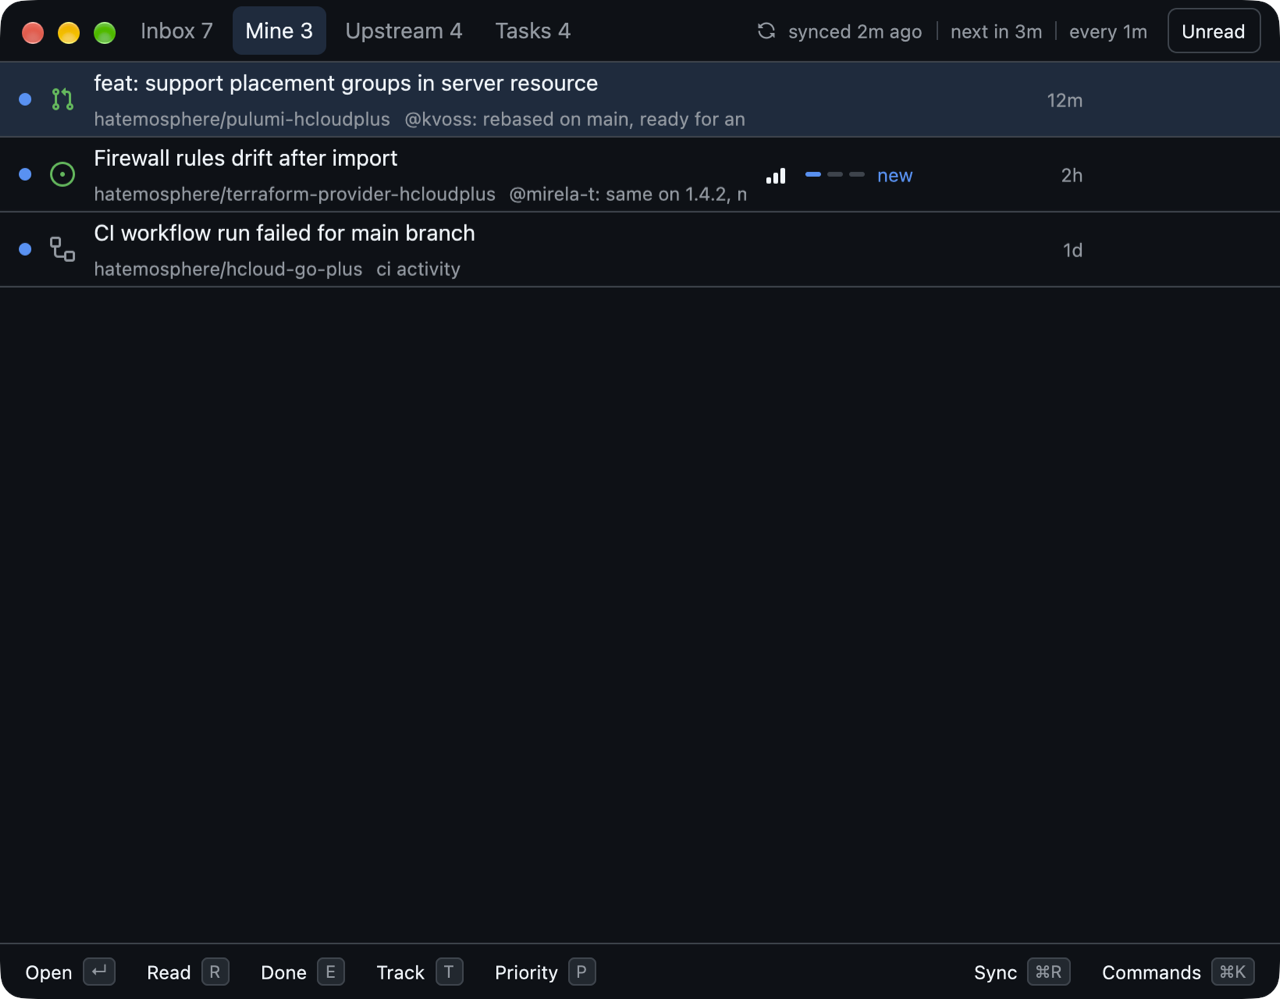
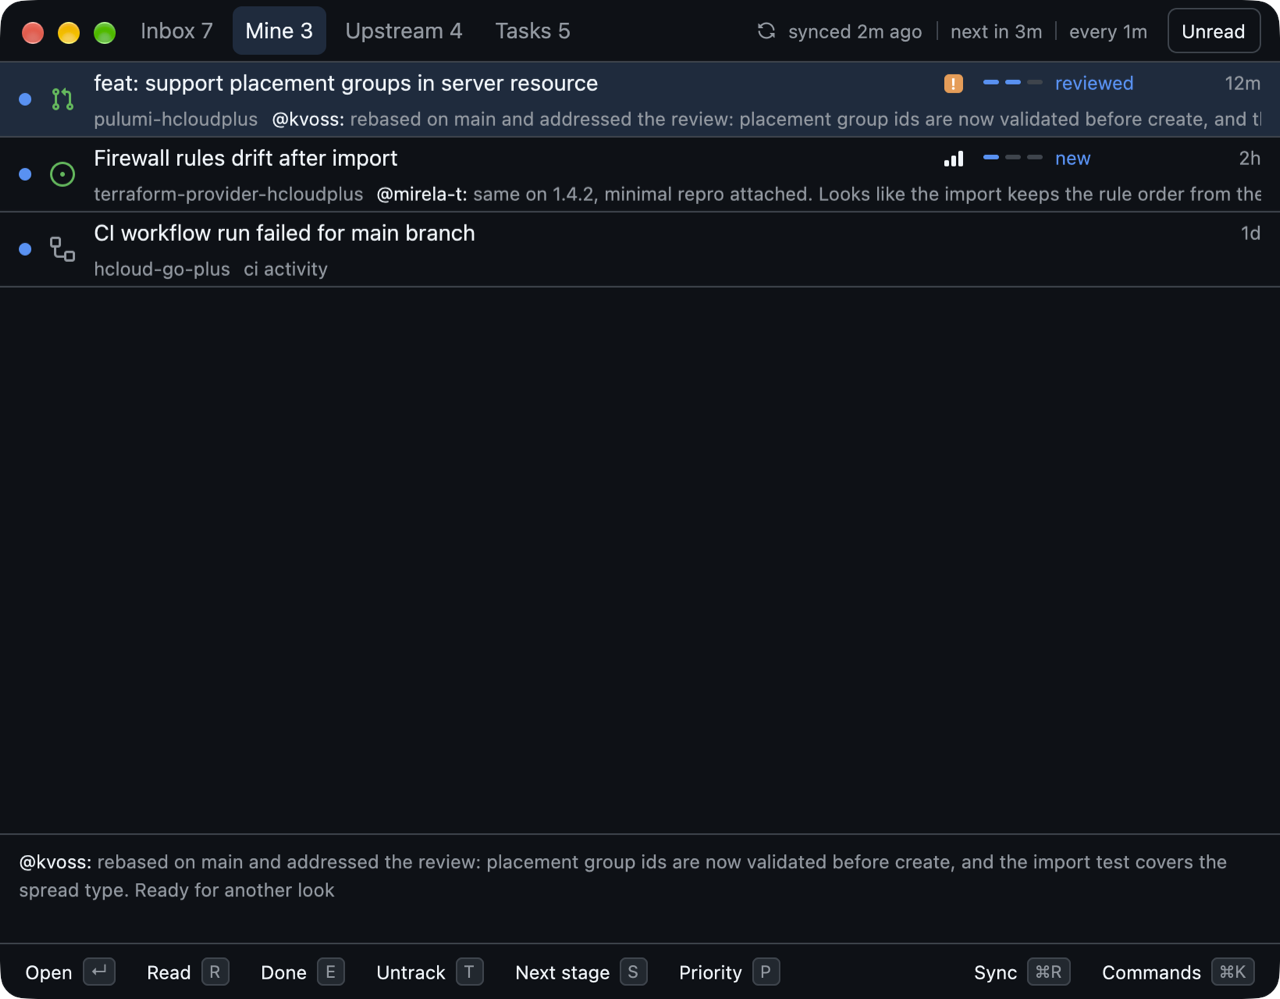
feat: full-width comments and preview strip

diff --git a/src/ui.rs b/src/ui.rs
@@ -3,9 +3,10 @@ use std::time::Duration;
 
 use gpui::{
     Action, AnyElement, AnyView, App, Context, Div, ElementId, Entity, FocusHandle, FontWeight,
-    IntoElement, KeyContext, KeyDownEvent, MouseButton, Render, Rgba, ScrollHandle, ScrollStrategy,
-    SharedString, Stateful, Subscription, Task, UniformListScrollHandle, Window, WindowAppearance,
-    actions, div, prelude::*, px, rgb, rgba, svg, uniform_list,
+    HighlightStyle, IntoElement, KeyContext, KeyDownEvent, MouseButton, Render, Rgba, ScrollHandle,
+    ScrollStrategy, SharedString, Stateful, StyledText, Subscription, Task,
+    UniformListScrollHandle, Window, WindowAppearance, actions, div, prelude::*, px, rgb, rgba,
+    svg, uniform_list,
 };
 
 use crate::db::Thread;
@@ -1018,6 +1019,7 @@ impl Render for Deck {
             .child(self.header(th, cx))
             .when(self.tab == Tab::Tasks, |d| d.child(self.tasks_bar(th, cx)))
             .child(body)
+            .children(current.as_deref().map(|t| preview(t, th)))
             .child(self.action_bar(current.as_deref(), window, th));
 
         let palette = self
@@ -1056,8 +1058,22 @@ impl Render for Tip {
             .shadow_md()
             .text_xs()
             .text_color(th.fg)
-            .child(self.label.clone())
+            .child(div().max_w(px(460.)).child(self.label.clone()))
             .children(self.keys.iter().map(|k| kbd(k.clone(), th)))
+    }
+}
+
+/// Plain text tooltip, wrapped, e.g. the full latest comment.
+fn text_tip(text: String) -> impl Fn(&mut Window, &mut App) -> AnyView {
+    let text = SharedString::from(text);
+    move |window, cx| {
+        let th = Theme::of(window);
+        cx.new(|_| Tip {
+            label: text.clone(),
+            keys: Vec::new(),
+            th,
+        })
+        .into()
     }
 }
 
@@ -1210,12 +1226,16 @@ fn row(
     let (status, color) = status_icon(t, th);
     let tracked = t.stage.is_some();
     let open = view.clone();
+    // Hover actions float over the right edge instead of reserving a column.
     let buttons = div()
+        .absolute()
+        .right(px(8.))
+        .top(px((ROW_H - 28.) / 2.))
         .flex()
-        .flex_none()
-        .justify_end()
-        .w(px(4. * 24. + 3. * 2.))
         .gap(px(2.))
+        .p(px(2.))
+        .rounded(px(6.))
+        .bg(if selected { th.sel } else { th.hover })
         .opacity(0.)
         .group_hover("row", |s| s.opacity(1.))
         .when(t.unread, |d| {
@@ -1261,9 +1281,77 @@ fn row(
             th,
         ));
 
+    // Your own repos are always yours; the owner prefix only costs space.
+    let repo = if t.mine {
+        t.repo.rsplit('/').next().unwrap_or(&t.repo)
+    } else {
+        &t.repo
+    };
+    let event = t.event.clone().filter(|e| !e.is_empty());
+    let (author, text) = match event.as_deref().and_then(|e| e.split_once(": ")) {
+        Some((who, text)) => (Some(who.to_owned()), text.to_owned()),
+        None => (
+            None,
+            event.clone().unwrap_or_else(|| t.reason.replace('_', " ")),
+        ),
+    };
+
+    let title_line = div()
+        .flex()
+        .items_center()
+        .gap_3()
+        .child(
+            div()
+                .flex_1()
+                .min_w(px(0.))
+                .text_sm()
+                .truncate()
+                .text_color(if t.unread { th.fg } else { th.mute })
+                .when(t.unread, |d| d.font_weight(FontWeight::MEDIUM))
+                .child(t.title.clone()),
+        )
+        // Fixed widths so columns line up whether or not a row is tracked.
+        .child(
+            div()
+                .flex()
+                .flex_none()
+                .items_center()
+                .gap_3()
+                .w(px(TASK_COL_W))
+                .when(tracked, |d| d.child(priority_icon(t.priority, th)))
+                .children(progress(t, th)),
+        )
+        .child(
+            div()
+                .w(px(36.))
+                .flex_none()
+                .text_right()
+                .text_xs()
+                .text_color(th.mute)
+                .child(time::parse(&t.updated).map(time::ago).unwrap_or_default()),
+        );
+
+    // The comment line runs the full row width; hovering it shows the whole comment.
+    let meta_line = div()
+        .id(("meta", ix))
+        .flex()
+        .gap_2()
+        .text_xs()
+        .text_color(th.mute)
+        .child(div().flex_none().child(repo.to_owned()))
+        .child(
+            div()
+                .flex_1()
+                .min_w(px(0.))
+                .truncate()
+                .child(comment(author, text, th)),
+        )
+        .when_some(event, |d, e| d.tooltip(text_tip(e)));
+
     div()
         .id(ix)
         .group("row")
+        .relative()
         .w_full()
         .h(px(ROW_H))
         .px_3()
@@ -1297,52 +1385,53 @@ fn row(
                 .flex()
                 .flex_col()
                 .gap(px(2.))
-                .child(
-                    div()
-                        .text_sm()
-                        .truncate()
-                        .text_color(if t.unread { th.fg } else { th.mute })
-                        .when(t.unread, |d| d.font_weight(FontWeight::MEDIUM))
-                        .child(t.title.clone()),
-                )
-                .child(
-                    div()
-                        .flex()
-                        .gap_2()
-                        .text_xs()
-                        .text_color(th.mute)
-                        .child(div().flex_none().child(t.repo.clone()))
-                        .child(
-                            div().min_w(px(0.)).truncate().child(
-                                t.event
-                                    .clone()
-                                    .filter(|e| !e.is_empty())
-                                    .unwrap_or_else(|| t.reason.replace('_', " ")),
-                            ),
-                        ),
-                ),
-        )
-        // Fixed width so columns line up whether or not a row is tracked.
-        .child(
-            div()
-                .flex()
-                .flex_none()
-                .items_center()
-                .gap_3()
-                .w(px(TASK_COL_W))
-                .when(tracked, |d| d.child(priority_icon(t.priority, th)))
-                .children(progress(t, th)),
-        )
-        .child(
-            div()
-                .w(px(36.))
-                .flex_none()
-                .text_right()
-                .text_xs()
-                .text_color(th.mute)
-                .child(time::parse(&t.updated).map(time::ago).unwrap_or_default()),
+                .child(title_line)
+                .child(meta_line),
         )
         .child(buttons)
+}
+
+const PREVIEW_LINES: usize = 3;
+
+/// Full latest comment of the selected thread, so long comments don't need a hover.
+/// Fixed height keeps the list from jumping as the selection moves.
+fn preview(t: &Thread, th: Theme) -> Div {
+    let event = t.event.clone().filter(|e| !e.is_empty());
+    let (author, text) = match event.as_deref().and_then(|e| e.split_once(": ")) {
+        Some((who, text)) => (Some(who.to_owned()), text.to_owned()),
+        None => (
+            None,
+            event.unwrap_or_else(|| format!("No comments yet - {}", t.reason.replace('_', " "))),
+        ),
+    };
+    div()
+        .flex_none()
+        .h(px(PREVIEW_LINES as f32 * 18. + 16.))
+        .px_3()
+        .py_2()
+        .border_t_1()
+        .border_color(th.line)
+        .text_xs()
+        .line_height(px(18.))
+        .text_color(th.mute)
+        .child(
+            div()
+                .line_clamp(PREVIEW_LINES)
+                .child(comment(author, text, th)),
+        )
+}
+
+/// "author: text" as one truncating line, with the author a little brighter.
+fn comment(author: Option<String>, text: String, th: Theme) -> StyledText {
+    let Some(author) = author else {
+        return StyledText::new(text);
+    };
+    let full = format!("{author}: {text}");
+    let highlight = HighlightStyle {
+        color: Some(th.fg.into()),
+        ..Default::default()
+    };
+    StyledText::new(full).with_highlights([(0..author.len() + 1, highlight)])
 }
 
 /// Linear-style: urgent is a filled square with "!", the rest are 1-3 signal bars.

diff --git a/src/github.rs b/src/github.rs
@@ -423,7 +423,7 @@ fn last_comment(node: &Value, me: &str) -> String {
         .split_whitespace()
         .collect::<Vec<_>>()
         .join(" ");
-    let text: String = text.chars().take(160).collect();
+    let text: String = text.chars().take(600).collect();
     if text.is_empty() {
         format!("{who} reviewed")
     } else {
